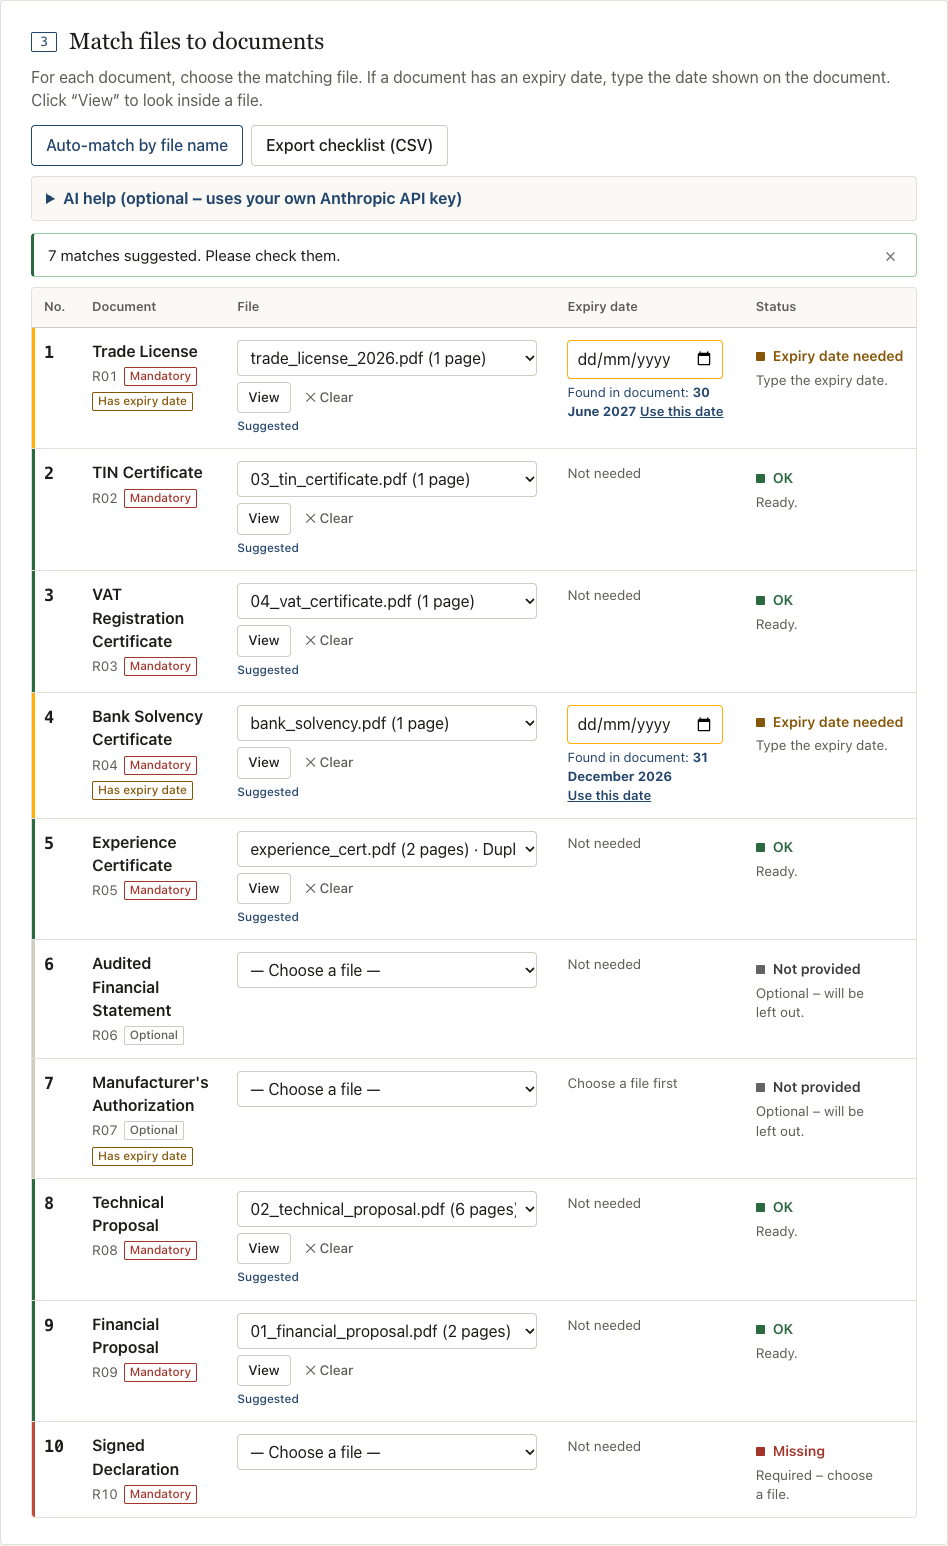
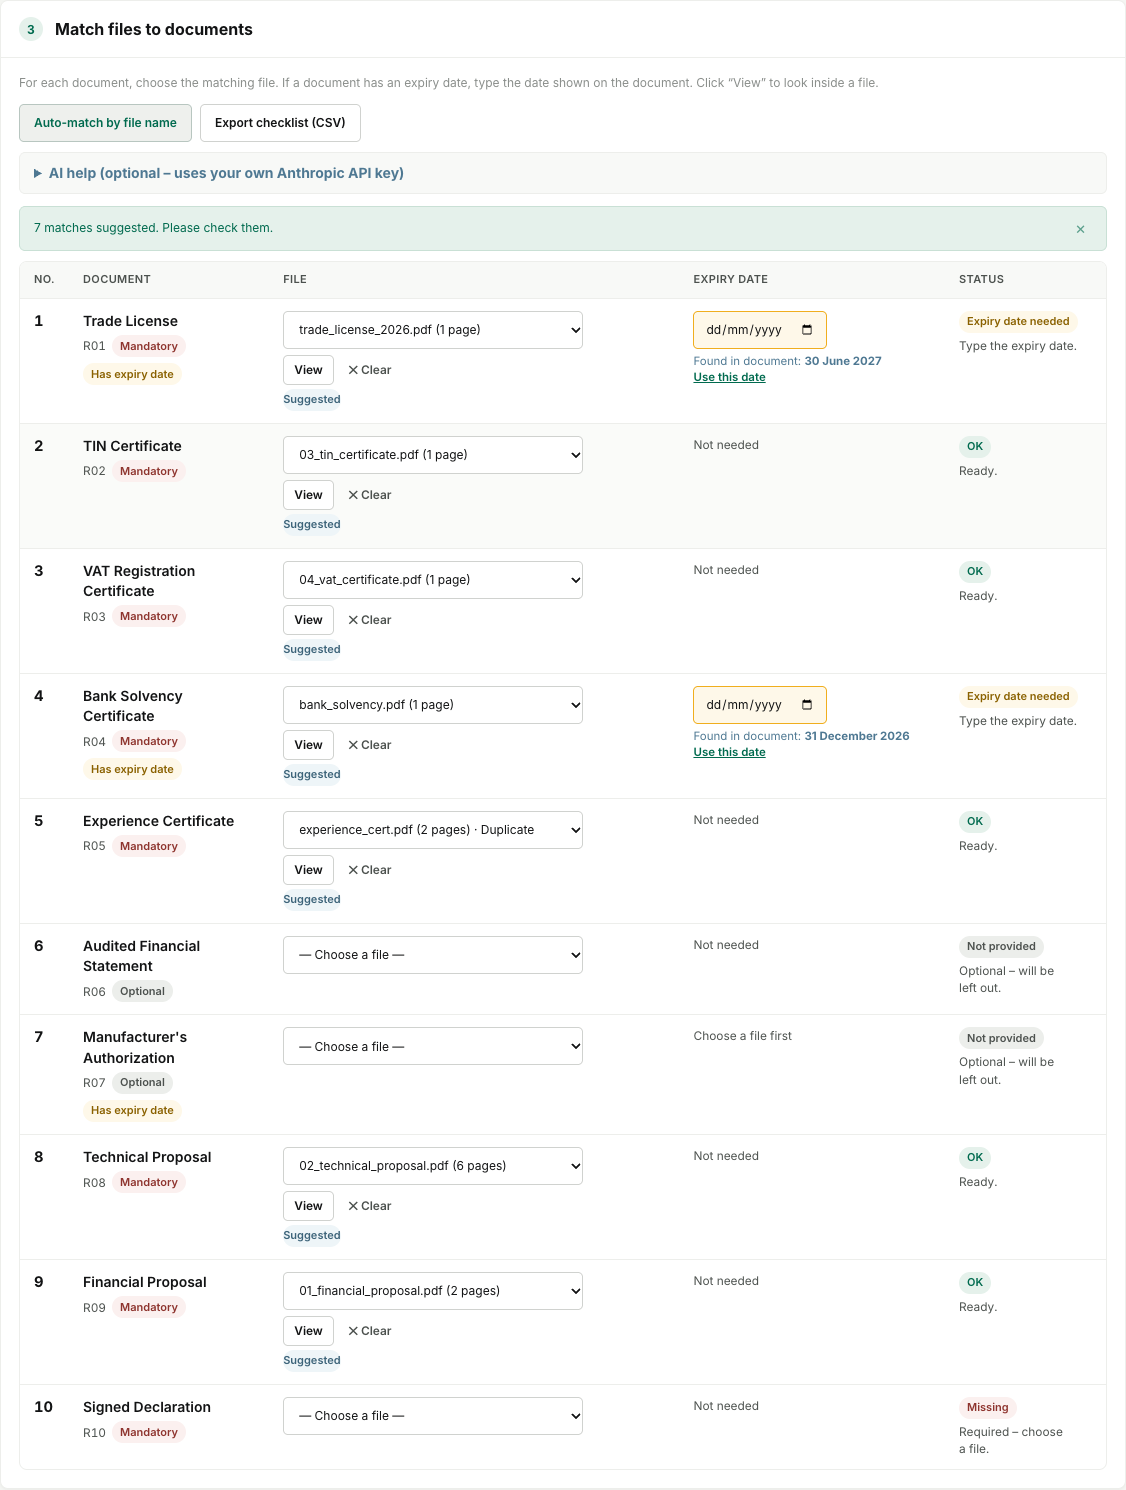
Apply the provided design system: green sidebar shell, Inter, cards, tables, badges, alerts
- src/design-system.css contains the provided design system verbatim (tokens, sidebar, main,
  page header, cards, buttons, inputs, tables, badges, progress, alerts, 900px breakpoint)
- Adapter section maps existing markup onto it: fixed 218px green sidebar with logo, step nav
  (active/done), tender summary, progress bar, status counts and Generate button; page header,
  card headers, uppercase table headers, pill status badges, alert colours
- Inter for English; Bangla keeps Noto Sans Bengali / Hind Siliguri for its glyphs
- Regenerated screenshots and sample-pack output

Prompt: "use this design system exactly : <design system CSS>"

diff --git a/src/design-system.css b/src/design-system.css
@@ -1,0 +1,257 @@
+/* Design system (provided) — applied verbatim */
+:root {
+  --color-primary: #006A4E;
+  --color-primary-hover: #00543C;
+  --color-primary-dark: #204434;
+  --color-sidebar: #2D6950;
+  --color-sidebar-active: #1F5943;
+  --color-sidebar-text: #EAF4EF;
+  --color-sidebar-muted: #B9D2C7;
+  --color-bg: #F4F5F2;
+  --color-surface: #FFFFFF;
+  --color-surface-muted: #ECEEEB;
+  --color-border: #EDEEEB;
+  --color-border-strong: #D0D2CF;
+  --color-text: #121314;
+  --color-text-secondary: #4C514E;
+  --color-text-muted: #8A8E8B;
+  --color-text-inverse: #FFFFFF;
+  --color-success: #006A4E;
+  --color-success-bg: #E5F1EB;
+  --color-warning: #F0AE1E;
+  --color-warning-bg: #FEF8E9;
+  --color-danger: #B54A42;
+  --color-danger-bg: #FBF0EF;
+  --color-info: #4E7892;
+  --color-info-bg: #EEF5F8;
+  --font-sans: Inter, ui-sans-serif, -apple-system, BlinkMacSystemFont, "Segoe UI", Roboto, Helvetica, Arial, sans-serif;
+  --text-xs: 11px; --text-sm: 12px; --text-md: 14px; --text-lg: 16px; --text-xl: 20px; --text-2xl: 26px; --text-3xl: 32px;
+  --weight-regular: 400; --weight-medium: 500; --weight-semibold: 600; --weight-bold: 700; --weight-heavy: 800;
+  --sidebar-width: 218px; --content-max-width: 1440px; --page-padding: 28px; --section-gap: 24px;
+  --space-1: 4px; --space-2: 8px; --space-3: 12px; --space-4: 16px; --space-5: 20px; --space-6: 24px; --space-7: 28px; --space-8: 32px; --space-10: 40px;
+  --radius-sm: 4px; --radius-md: 6px; --radius-lg: 8px; --radius-xl: 10px; --radius-pill: 999px;
+  --shadow-sm: 0 1px 2px rgba(18, 19, 20, 0.04);
+  --shadow-md: 0 2px 8px rgba(18, 19, 20, 0.07);
+  --shadow-lg: 0 8px 24px rgba(18, 19, 20, 0.10);
+  --control-height: 38px; --control-radius: 5px;
+}
+* { box-sizing: border-box; }
+html, body { margin: 0; padding: 0; background: var(--color-bg); color: var(--color-text); font-family: var(--font-sans); font-size: var(--text-md); line-height: 1.45; -webkit-font-smoothing: antialiased; }
+button, input, select, textarea { font: inherit; }
+button { cursor: pointer; }
+.app { min-height: 100vh; display: flex; background: var(--color-bg); }
+.sidebar { position: fixed; inset: 0 auto 0 0; width: var(--sidebar-width); background: var(--color-sidebar); color: var(--color-sidebar-text); display: flex; flex-direction: column; z-index: 20; }
+.main { min-width: 0; width: calc(100% - var(--sidebar-width)); margin-left: var(--sidebar-width); padding: var(--page-padding); }
+.content { width: min(100%, var(--content-max-width)); margin: 0 auto; }
+.sidebar-logo { padding: 20px 18px 22px; font-size: var(--text-lg); font-weight: var(--weight-bold); }
+.sidebar-nav { display: flex; flex-direction: column; gap: 3px; padding: 0 10px; }
+.sidebar-item { min-height: 36px; display: flex; align-items: center; gap: 10px; padding: 8px 11px; border-radius: var(--radius-sm); color: var(--color-sidebar-text); text-decoration: none; font-size: var(--text-sm); font-weight: var(--weight-medium); }
+.sidebar-item:hover, .sidebar-item.active { background: rgba(255, 255, 255, 0.10); }
+.sidebar-item.active { background: var(--color-sidebar-active); }
+.sidebar-item .icon { width: 16px; height: 16px; flex: 0 0 16px; }
+.sidebar-section { margin: 18px 12px 7px; color: var(--color-sidebar-muted); font-size: 10px; font-weight: var(--weight-semibold); text-transform: uppercase; letter-spacing: 0.06em; }
+.page-header { display: flex; align-items: flex-start; justify-content: space-between; gap: 20px; margin-bottom: var(--space-6); }
+.page-title { margin: 0; font-size: var(--text-2xl); line-height: 1.15; font-weight: var(--weight-heavy); letter-spacing: -0.025em; }
+.page-subtitle { margin: 5px 0 0; color: var(--color-text-secondary); font-size: var(--text-sm); }
+.card { background: var(--color-surface); border: 1px solid var(--color-border); border-radius: var(--radius-lg); box-shadow: var(--shadow-sm); }
+.card-header { padding: 16px 18px; border-bottom: 1px solid var(--color-border); display: flex; align-items: center; justify-content: space-between; gap: 16px; }
+.card-body { padding: 18px; }
+.card-title { margin: 0; font-size: var(--text-lg); font-weight: var(--weight-bold); }
+.card-description { margin: 4px 0 0; color: var(--color-text-muted); font-size: var(--text-sm); }
+.grid { display: grid; gap: var(--space-5); }
+.grid-2 { grid-template-columns: repeat(2, minmax(0, 1fr)); }
+.grid-3 { grid-template-columns: repeat(3, minmax(0, 1fr)); }
+.grid-4 { grid-template-columns: repeat(4, minmax(0, 1fr)); }
+.btn { min-height: var(--control-height); display: inline-flex; align-items: center; justify-content: center; gap: 7px; padding: 0 14px; border: 1px solid transparent; border-radius: var(--control-radius); font-size: var(--text-sm); font-weight: var(--weight-semibold); line-height: 1; transition: background .15s ease, border-color .15s ease, color .15s ease; }
+.btn-primary { background: var(--color-primary); color: var(--color-text-inverse); }
+.btn-primary:hover { background: var(--color-primary-hover); }
+.btn-secondary { background: var(--color-surface); color: var(--color-text); border-color: var(--color-border-strong); }
+.btn-secondary:hover { background: var(--color-surface-muted); }
+.btn-danger { background: var(--color-danger); color: white; }
+.input, .select, .textarea { width: 100%; min-height: var(--control-height); padding: 8px 11px; background: var(--color-surface); color: var(--color-text); border: 1px solid var(--color-border-strong); border-radius: var(--control-radius); outline: none; font-size: var(--text-sm); }
+.input:focus, .select:focus, .textarea:focus { border-color: var(--color-primary); box-shadow: 0 0 0 2px rgba(0, 106, 78, 0.10); }
+.label { display: block; margin-bottom: 6px; color: var(--color-text-secondary); font-size: var(--text-sm); font-weight: var(--weight-semibold); }
+.table-wrap { overflow: hidden; border: 1px solid var(--color-border); border-radius: var(--radius-lg); background: var(--color-surface); }
+.table { width: 100%; border-collapse: collapse; font-size: var(--text-sm); }
+.table th { padding: 10px 14px; background: #F8F9F7; color: var(--color-text-secondary); border-bottom: 1px solid var(--color-border); text-align: left; font-size: var(--text-xs); font-weight: var(--weight-semibold); text-transform: uppercase; letter-spacing: .035em; }
+.table td { padding: 12px 14px; border-bottom: 1px solid var(--color-border); vertical-align: middle; }
+.table tr:last-child td { border-bottom: 0; }
+.table tr:hover td { background: #FAFBF9; }
+.badge { display: inline-flex; align-items: center; min-height: 22px; padding: 3px 8px; border-radius: var(--radius-pill); font-size: var(--text-xs); font-weight: var(--weight-semibold); line-height: 1; }
+.badge-success { color: var(--color-success); background: var(--color-success-bg); }
+.badge-warning { color: #8A6100; background: var(--color-warning-bg); }
+.badge-danger { color: #8E342E; background: var(--color-danger-bg); }
+.badge-info { color: #3C6379; background: var(--color-info-bg); }
+.stat { padding: 18px; background: var(--color-surface); border: 1px solid var(--color-border); border-radius: var(--radius-lg); }
+.stat-label { color: var(--color-text-muted); font-size: var(--text-sm); font-weight: var(--weight-medium); }
+.stat-value { margin-top: 5px; font-size: var(--text-2xl); line-height: 1.1; font-weight: var(--weight-heavy); }
+.stat-meta { margin-top: 8px; color: var(--color-text-secondary); font-size: var(--text-xs); }
+.progress { width: 100%; height: 6px; overflow: hidden; background: #E5E8E5; border-radius: var(--radius-pill); }
+.progress-bar { height: 100%; background: var(--color-primary); border-radius: inherit; }
+.alert { padding: 12px 14px; border: 1px solid var(--color-border); border-radius: var(--radius-md); font-size: var(--text-sm); }
+.alert-success { color: var(--color-success); background: var(--color-success-bg); border-color: #C9E0D5; }
+.alert-warning { color: #765400; background: var(--color-warning-bg); border-color: #F3DE9E; }
+.alert-danger { color: #86342E; background: var(--color-danger-bg); border-color: #EBC8C5; }
+.text-muted { color: var(--color-text-muted); }
+.text-secondary { color: var(--color-text-secondary); }
+.text-primary { color: var(--color-primary); }
+.fw-medium { font-weight: var(--weight-medium); }
+.fw-semibold { font-weight: var(--weight-semibold); }
+.fw-bold { font-weight: var(--weight-bold); }
+@media (max-width: 900px) {
+  :root { --sidebar-width: 0px; --page-padding: 18px; }
+  .sidebar { display: none; }
+  .main { width: 100%; margin-left: 0; }
+  .grid-2, .grid-3, .grid-4 { grid-template-columns: 1fr; }
+}
+
+/* ---------- Adapter: maps the app's existing markup onto the design system ---------- */
+:root {
+  --bg: var(--color-bg); --paper: var(--color-bg); --card: var(--color-surface); --inset: #F8F9F7;
+  --ink: var(--color-text); --muted: var(--color-text-secondary); --line: var(--color-border); --line-strong: var(--color-border-strong);
+  --brand: var(--color-primary); --brand-2: var(--color-primary-hover); --brand-soft: var(--color-success-bg);
+  --ok: var(--color-success); --ok-bg: var(--color-success-bg); --bad: #8E342E; --bad-fill: var(--color-danger); --bad-bg: var(--color-danger-bg);
+  --warn: #8A6100; --warn-bg: var(--color-warning-bg); --info: #3C6379; --info-bg: var(--color-info-bg); --gray-bg: var(--color-surface-muted);
+  --radius: var(--radius-lg); --shadow: var(--shadow-sm);
+  font-family: var(--font-sans);
+}
+:lang(bn) {
+  --font-sans: Inter, 'Noto Sans Bengali', 'Hind Siliguri', ui-sans-serif, -apple-system, 'Segoe UI', sans-serif;
+  font-family: var(--font-sans);
+}
+html, body, .app { background: var(--color-bg); }
+.app { display: block; }
+h1, h2, h3, :lang(bn) h1, :lang(bn) h2, :lang(bn) h3,
+.fname, .pill, .tender dd.strong, .ord, .num, .dot, .sc b, .side-tender .strong, .exp .small, .result p, .foot, .match td.ord {
+  font-family: var(--font-sans);
+}
+/* Shell */
+.layout { display: block; }
+.side.sidebar { top: 0; overflow-y: auto; }
+.side-card { background: transparent; border: 0; box-shadow: none; padding: 0 0 20px; gap: 0; border-radius: 0; }
+.sidebar-logo { color: var(--color-sidebar-text); }
+.side .stepper { display: flex; flex-direction: column; gap: 3px; padding: 0 10px; margin: 0; }
+.side .stepper li { padding: 0; border: 0; background: transparent; box-shadow: none; }
+.side .stepper li a.sidebar-item { color: var(--color-sidebar-text); font-size: var(--text-sm); font-weight: var(--weight-medium); padding: 8px 11px; }
+.side .stepper li a.sidebar-item:hover { background: rgba(255, 255, 255, 0.10); }
+.side .stepper li a.sidebar-item.active { background: var(--color-sidebar-active); }
+.side .stepper li.done a { color: var(--color-sidebar-text); font-weight: var(--weight-medium); }
+.side .stepper .dot, .side .stepper li.done .dot { width: 18px; height: 18px; flex: 0 0 18px; border-radius: var(--radius-pill); border: 1px solid var(--color-sidebar-muted); background: transparent; color: var(--color-sidebar-text); font-size: 10px; }
+.side .stepper li.done .dot { background: var(--color-sidebar-text); color: var(--color-sidebar); border-color: var(--color-sidebar-text); }
+.side-tender { margin: 18px 10px 0; padding: 10px 11px; background: rgba(255, 255, 255, 0.08); border: 0; border-radius: var(--radius-sm); }
+.side-tender .side-label { color: var(--color-sidebar-muted); font-size: 10px; text-transform: uppercase; letter-spacing: .06em; font-weight: var(--weight-semibold); }
+.side-tender .strong, .side-tender div { color: var(--color-sidebar-text); font-size: var(--text-sm); }
+.side-progress { padding: 0 10px; }
+.side-progress .sidebar-section { margin: 18px 2px 7px; }
+.side-progress .progress { background: rgba(255, 255, 255, 0.18); }
+.side-progress .progress-bar { background: var(--color-sidebar-text); }
+.side-counts { padding: 8px 10px 0; gap: 0; }
+.sc { color: var(--color-sidebar-text) !important; font-size: var(--text-sm); padding: 6px 2px; border-bottom: 1px solid rgba(255, 255, 255, 0.10); border-radius: 0; }
+.sc.st-ok .sc-dot { background: #7FD1A8; }
+.sc.st-missing .sc-dot, .sc.st-expired .sc-dot { background: #F2A39C; }
+.sc.st-expiry_needed .sc-dot { background: var(--color-warning); }
+.sc.st-not_provided .sc-dot { background: var(--color-sidebar-muted); }
+.side .btn.primary.block { margin: 16px 10px 0; width: calc(100% - 20px); background: var(--color-surface); color: var(--color-primary); border-color: var(--color-surface); }
+.side .btn.primary.block:disabled { opacity: 0.55; }
+.side-link { display: block; margin: 8px 10px 0; color: var(--color-sidebar-text); font-size: var(--text-xs); }
+.topbar, .foot { margin-left: var(--sidebar-width); }
+main.main { max-width: none; padding-top: 0; }
+.main > * { max-width: var(--content-max-width); margin-left: auto; margin-right: auto; }
+/* Page header (was the top bar) */
+.topbar { background: transparent; color: var(--color-text); border: 0; box-shadow: none; padding: var(--page-padding) var(--page-padding) var(--space-4); }
+.topbar .logo { display: none; }
+.topbar h1 { font-size: var(--text-2xl); line-height: 1.15; font-weight: var(--weight-heavy); letter-spacing: -0.025em; }
+.topbar .tagline { margin: 5px 0 0; color: var(--color-text-secondary); font-size: var(--text-sm); }
+.topbar .btn { background: var(--color-surface); color: var(--color-text); border-color: var(--color-border-strong); }
+.topbar .btn:hover:not(:disabled) { background: var(--color-surface-muted); }
+.topbar .btn.danger-ghost { color: var(--color-danger); }
+.lang, .topbar .lang { background: var(--color-surface); border: 1px solid var(--color-border-strong); border-radius: var(--control-radius); padding: 2px; }
+.lang button, .topbar .lang button { color: var(--color-text); border-radius: var(--radius-sm); font-size: var(--text-sm); font-weight: var(--weight-semibold); }
+.lang button.on, .topbar .lang button.on { background: var(--color-primary); color: var(--color-text-inverse); }
+.privacy { color: var(--color-text-secondary); font-size: var(--text-sm); }
+/* Cards */
+.card { border-radius: var(--radius-lg); border: 1px solid var(--color-border); box-shadow: var(--shadow-sm); padding: 18px; margin-bottom: var(--section-gap); }
+.card h2 { font-size: var(--text-lg); font-weight: var(--weight-bold); letter-spacing: 0; margin: -18px -18px 16px; padding: 16px 18px; border-bottom: 1px solid var(--color-border); }
+.card h3 { font-size: var(--text-md); font-weight: var(--weight-bold); }
+.num, .card h2 .num { width: 24px; height: 24px; min-width: 24px; padding: 0; border: 0; border-radius: var(--radius-pill); background: var(--color-success-bg); color: var(--color-primary); font-size: var(--text-sm); font-weight: var(--weight-bold); display: inline-grid; place-items: center; }
+.help { color: var(--color-text-muted); font-size: var(--text-sm); }
+.muted { color: var(--color-text-secondary); }
+/* Buttons */
+.btn { border-radius: var(--control-radius); font-size: var(--text-sm); font-weight: var(--weight-semibold); background: var(--color-surface); color: var(--color-text); border-color: var(--color-border-strong); }
+.btn:hover:not(:disabled) { background: var(--color-surface-muted); border-color: var(--color-border-strong); }
+.btn.primary, .btn.primary:hover:not(:disabled) { background: var(--color-primary); color: var(--color-text-inverse); border-color: transparent; }
+.btn.primary:hover:not(:disabled) { background: var(--color-primary-hover); }
+.btn.accent { background: var(--color-surface); color: var(--color-primary); border-color: var(--color-primary); }
+.btn.small { min-height: 30px; padding: 0 10px; }
+.btn.big { min-height: 44px; padding: 0 20px; font-size: var(--text-md); }
+.btn.ghost { background: transparent; border-color: transparent; color: var(--color-text-secondary); }
+.btn.danger-ghost { color: var(--color-danger); }
+.link { color: var(--color-primary); }
+/* Controls */
+select, input[type='date'], .pages-input, .ai-row input { min-height: var(--control-height); padding: 8px 11px; background: var(--color-surface); color: var(--color-text); border: 1px solid var(--color-border-strong); border-radius: var(--control-radius); font-size: var(--text-sm); }
+select:focus, input:focus { border-color: var(--color-primary); box-shadow: 0 0 0 2px rgba(0, 106, 78, 0.10); outline: none; }
+select.has, input[type='date'].good { border-color: var(--color-border-strong); background: var(--color-surface); }
+input[type='date'].need { border-color: var(--color-warning); background: var(--color-warning-bg); }
+input[type='date'].bad { border-color: var(--color-danger); background: var(--color-danger-bg); }
+.check input, .radio input[type='radio'] { accent-color: var(--color-primary); }
+/* Insets */
+.tender, .seal, .ai { background: #F8F9F7; border: 1px solid var(--color-border); border-radius: var(--radius-md); }
+.tender dt, .side-label, .match th { font-size: var(--text-xs); font-weight: var(--weight-semibold); text-transform: uppercase; letter-spacing: .035em; color: var(--color-text-secondary); }
+.drop { background: #F8F9F7; border: 1px dashed var(--color-border-strong); border-radius: var(--radius-lg); }
+.drop:hover, .drop.over { background: var(--color-success-bg); border-color: var(--color-primary); }
+.ai summary, .hint { color: var(--color-info); }
+/* Table (match) = .table */
+.table-wrap { border-radius: var(--radius-lg); border: 1px solid var(--color-border); }
+table.match { font-size: var(--text-sm); }
+.match th { padding: 10px 14px; background: #F8F9F7; border-bottom: 1px solid var(--color-border); }
+.match td { padding: 12px 14px; border-bottom: 1px solid var(--color-border); }
+.match tr:hover td { background: #FAFBF9; }
+.match tr td:first-child { box-shadow: none !important; }
+.dtitle { font-weight: var(--weight-semibold); font-size: var(--text-md); }
+/* Badges */
+.status, .tag, .badge, .pill { display: inline-flex; align-items: center; min-height: 22px; padding: 3px 8px; border-radius: var(--radius-pill) !important; font-size: var(--text-xs); font-weight: var(--weight-semibold); line-height: 1; box-shadow: none !important; }
+.st-icon { display: none; }
+.st-ok, .badge.ok { color: var(--color-success); background: var(--color-success-bg) !important; }
+.st-missing, .st-expired, .tag-m, .badge.bad { color: #8E342E; background: var(--color-danger-bg) !important; }
+.st-expiry_needed, .tag-e, .badge.warn { color: #8A6100; background: var(--color-warning-bg) !important; }
+.badge.soft, .badge.info { color: #3C6379; background: var(--color-info-bg) !important; }
+.st-not_provided, .tag-o, .badge.muted-b, .pill { color: var(--color-text-secondary); background: var(--color-surface-muted) !important; }
+.fmeta .badge { border-radius: var(--radius-md) !important; line-height: 1.3; }
+/* Alerts */
+.msg { border-radius: var(--radius-md); border: 1px solid var(--color-border); border-left-width: 1px; font-size: var(--text-sm); padding: 12px 14px; }
+.msg.success { color: var(--color-success); background: var(--color-success-bg); border-color: #C9E0D5; }
+.msg.warn { color: #765400; background: var(--color-warning-bg); border-color: #F3DE9E; }
+.msg.error { color: #86342E; background: var(--color-danger-bg); border-color: #EBC8C5; }
+.msg.info { color: #3C6379; background: var(--color-info-bg); border-color: #CFE0EA; }
+.blockers { color: #86342E; background: var(--color-danger-bg); border: 1px solid #EBC8C5; border-radius: var(--radius-md); font-size: var(--text-sm); }
+.blockers strong { color: #86342E; }
+.result { background: var(--color-surface); border: 1px solid #C9E0D5; border-radius: var(--radius-lg); }
+/* Files */
+.files li { background: var(--color-surface); border: 1px solid var(--color-border); border-radius: var(--radius-lg); box-shadow: none; }
+.files li.dup { background: var(--color-warning-bg); border-color: #F3DE9E; }
+.ficon { background: var(--color-danger-bg); color: var(--color-danger); border: 0; border-radius: var(--radius-md); font-size: 10px; font-weight: var(--weight-bold); }
+.fname { font-size: var(--text-md); font-weight: var(--weight-semibold); }
+.modal { border-radius: var(--radius-xl); box-shadow: var(--shadow-lg); }
+.spinner { border-top-color: var(--color-primary); }
+@media (max-width: 900px) {
+  .side.sidebar { display: none; }
+  .topbar, .foot { margin-left: 0; }
+}
+@media (max-width: 720px) {
+  table.match tr { border-radius: var(--radius-lg); box-shadow: var(--shadow-sm); }
+}
+.side-counts .sc,
+.side-counts .sc.st-ok,
+.side-counts .sc.st-missing,
+.side-counts .sc.st-expired,
+.side-counts .sc.st-expiry_needed,
+.side-counts .sc.st-not_provided {
+  display: flex;
+  min-height: 0;
+  padding: 7px 2px;
+  border-radius: 0 !important;
+  background: transparent !important;
+  color: var(--color-sidebar-text) !important;
+  font-size: var(--text-sm);
+  font-weight: var(--weight-medium);
+}

diff --git a/src/App.tsx b/src/App.tsx
@@ -781,7 +781,7 @@ export default function App() {
         </div>
       </header>
 
-      <main>
+      <main className="main">
         <div className="privacy">
           {T.privacy} {savedTick && <span className="saved">✓ {T.autosaved}</span>}
         </div>
@@ -798,13 +798,17 @@ export default function App() {
 
 
         <div className="layout">
-          <aside className="side" aria-label={T.summary}>
+          <aside className="side sidebar" aria-label={T.summary}>
             <div className="side-card">
-              <div className="side-label">{T.progress}</div>
+              <div className="sidebar-logo">{T.appTitle}</div>
+              <div className="sidebar-section">{T.progress}</div>
               <ol className="stepper" aria-label={T.howItWorks}>
                 {T.steps.map((s, i) => (
                   <li key={i} className={stepDone[i] ? 'done' : ''}>
-                    <a href={`#step${i + 1}`}>
+                    <a
+                href={`#step${i + 1}`}
+                className={`sidebar-item${!stepDone[i] && stepDone.slice(0, i).every(Boolean) ? ' active' : ''}`}
+              >
                       <span className="dot">{stepDone[i] ? '✓' : num(i + 1, lang)}</span>
                       <span>{s}</span>
                     </a>
@@ -817,6 +821,14 @@ export default function App() {
                   <div className="strong">{project.tender.tender_id}</div>
                   <div className="side-label">{T.deadline}</div>
                   <div>{formatDate(deadline, lang)}</div>
+                </div>
+              )}
+              {project && (
+                <div className="side-progress">
+                  <div className="sidebar-section">{T.summary}</div>
+                  <div className="progress" aria-hidden>
+                    <div className="progress-bar" style={{ width: `${rows.length ? Math.round(((counts.ok + counts.not_provided) / rows.length) * 100) : 0}%` }} />
+                  </div>
                 </div>
               )}
               {project && (

diff --git a/index.html b/index.html
@@ -7,7 +7,7 @@
     <title>Tender Package Builder</title>
     <link rel="preconnect" href="https://fonts.googleapis.com" />
     <link rel="preconnect" href="https://fonts.gstatic.com" crossorigin />
-    <link href="https://fonts.googleapis.com/css2?family=Noto+Serif+Bengali:wght@400;600&display=swap" rel="stylesheet" />
+    <link href="https://fonts.googleapis.com/css2?family=Inter:wght@400;500;600;700;800&display=swap" rel="stylesheet" />
   </head>
   <body>
     <div id="root"></div>

diff --git a/src/main.tsx b/src/main.tsx
@@ -3,6 +3,7 @@ import { createRoot } from 'react-dom/client'
 import '@fontsource/noto-sans-bengali/400.css'
 import '@fontsource/noto-sans-bengali/700.css'
 import './styles.css'
+import './design-system.css'
 import App from './App.tsx'
 
 createRoot(document.getElementById('root')!).render(
